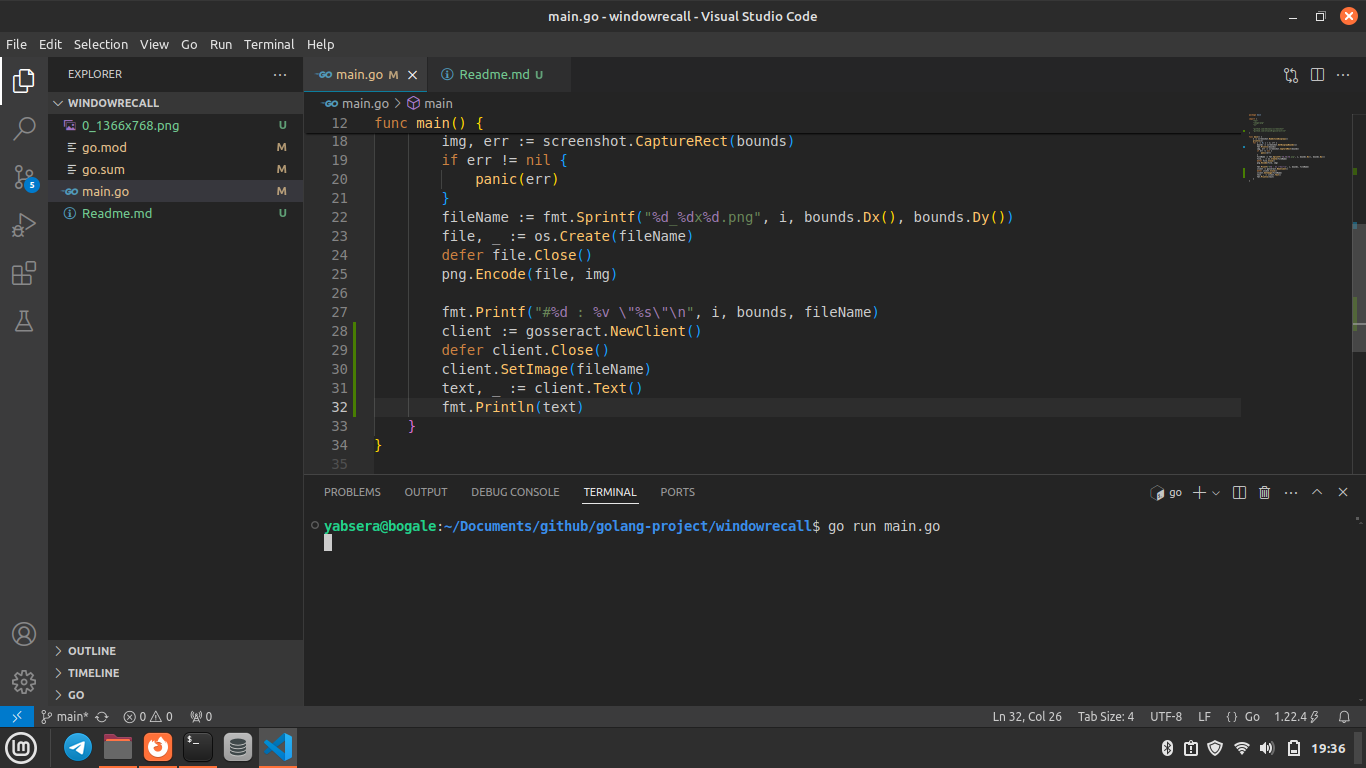
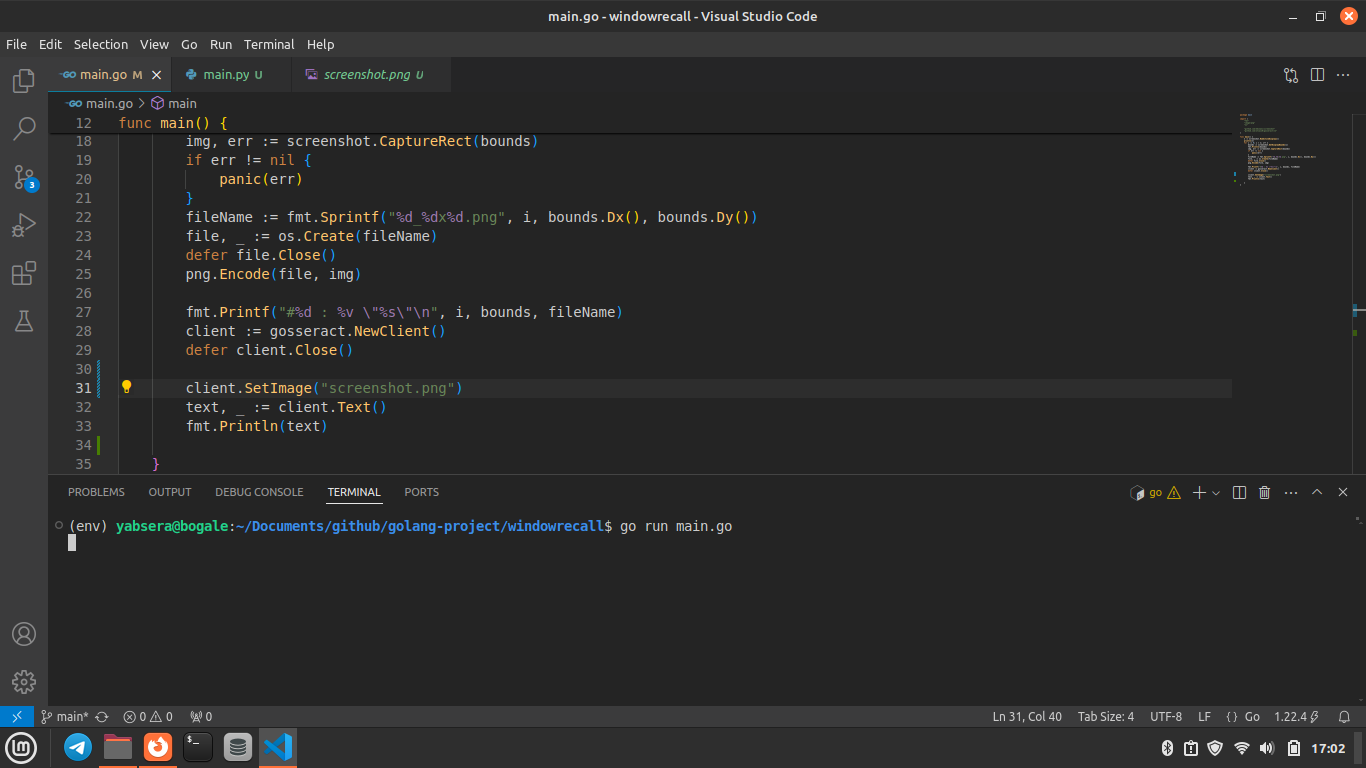
ok

diff --git a/windowrecall/main.go b/windowrecall/main.go
@@ -27,8 +27,10 @@ func main() {
 		fmt.Printf("#%d : %v \"%s\"\n", i, bounds, fileName)
 		client := gosseract.NewClient()
 		defer client.Close()
-		client.SetImage(fileName)
+
+		client.SetImage("screenshot.png")
 		text, _ := client.Text()
 		fmt.Println(text)
+
 	}
 }
